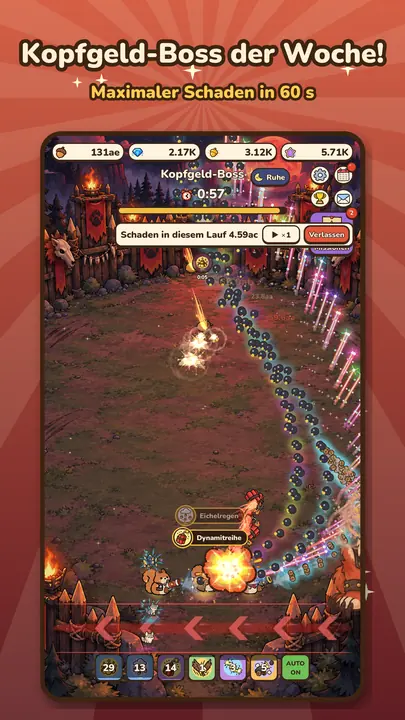
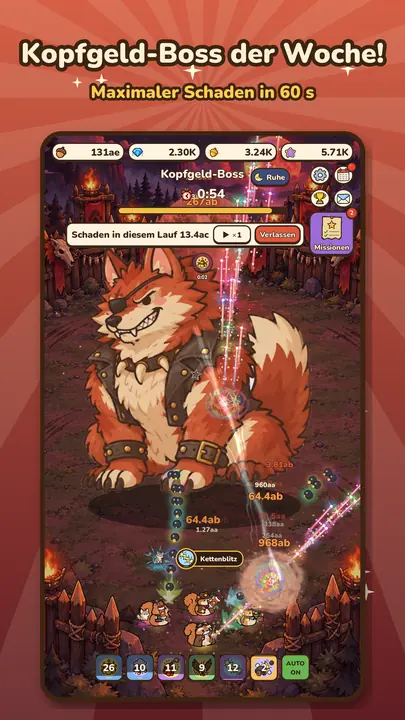
Retake weekly bounty boss screenshot (bigger boss, bullets from squirrels)
- assets/shots/<lang>/4.webp for all 14 languages: the boss is now 2.3x and
  the old shot drew the squirrels away from where the bullets start
- Bump shot cache version (?v=3) and main.js?v=6

diff --git a/main.js b/main.js
@@ -64,9 +64,9 @@ function apply(lang) {
   opts.forEach(o => o.setAttribute('aria-selected', String(o.dataset.lang === lang)));
   $$('[data-t]').forEach(el => { const v = vals[el.dataset.t]; if (v) el.textContent = v; });
   $$('[data-mode]').forEach(el => { el.textContent = t.modes[+el.dataset.mode]; });
-  $$('[data-shot]').forEach(el => { el.src = `assets/shots/${t.shots}/${el.dataset.shot}.webp?v=2`; });
+  $$('[data-shot]').forEach(el => { el.src = `assets/shots/${t.shots}/${el.dataset.shot}.webp?v=3`; });
   $('#strip').innerHTML = [1, 2, 3, 4, 5, 6, 7, 8, 9]
-    .map(i => `<img src="assets/shots/${t.shots}/${i}.webp?v=2" alt="" loading="lazy" width="270" height="480">`).join('');
+    .map(i => `<img src="assets/shots/${t.shots}/${i}.webp?v=3" alt="" loading="lazy" width="270" height="480">`).join('');
   badges(t, lang);
   setVideo(lang);
   try { localStorage.setItem('lang', lang); } catch (e) {}

diff --git a/index.html b/index.html
@@ -190,6 +190,6 @@
 </footer>
 
 <script src="i18n.js?v=4"></script>
-<script src="main.js?v=5"></script>
+<script src="main.js?v=6"></script>
 </body>
 </html>
